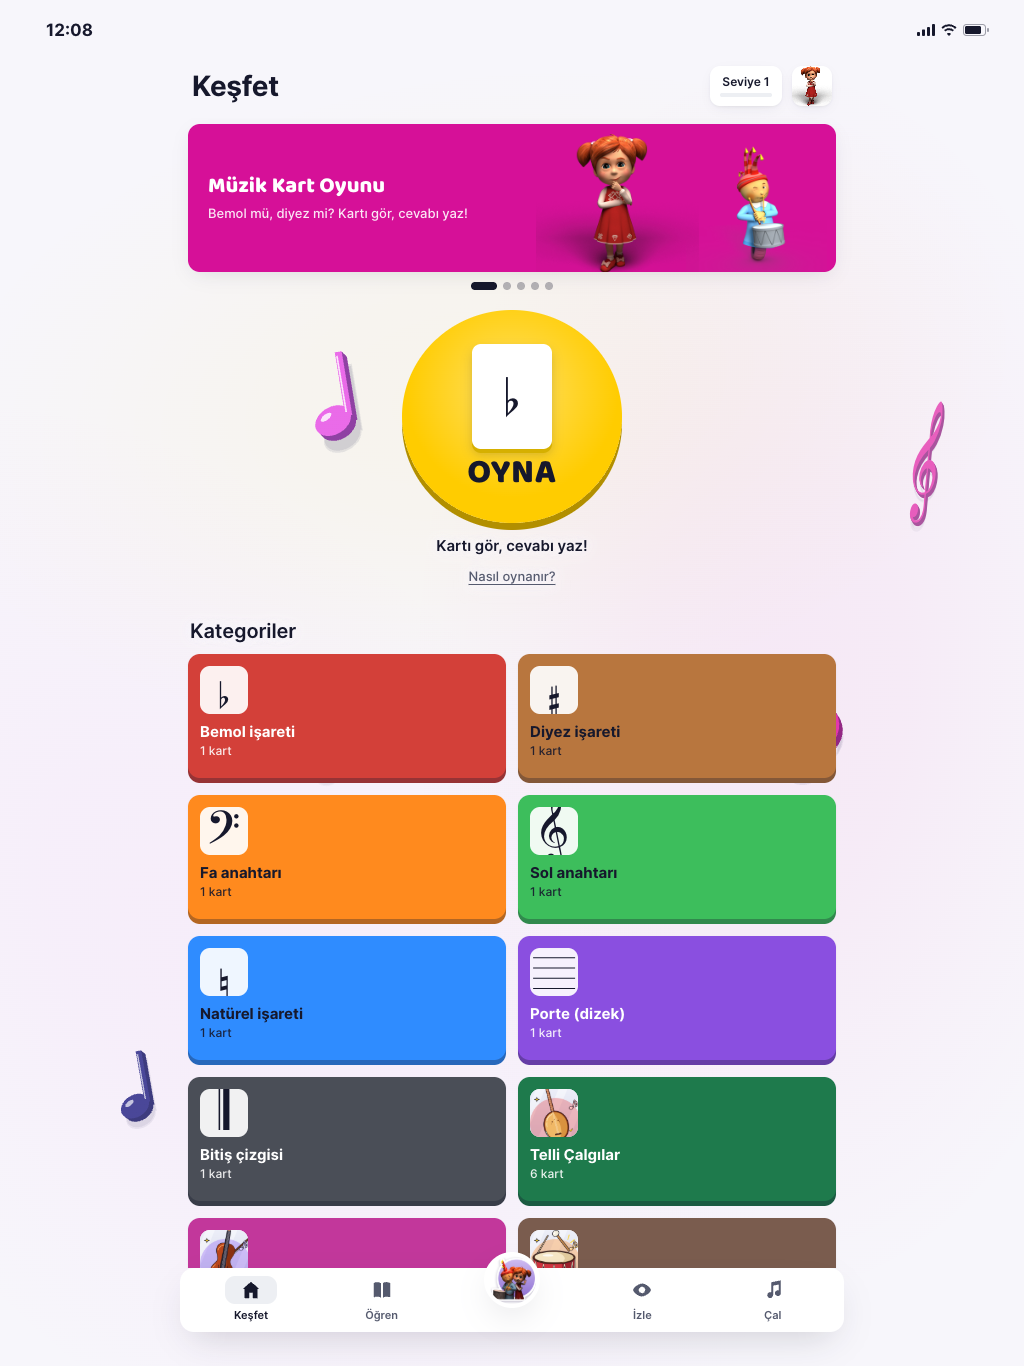
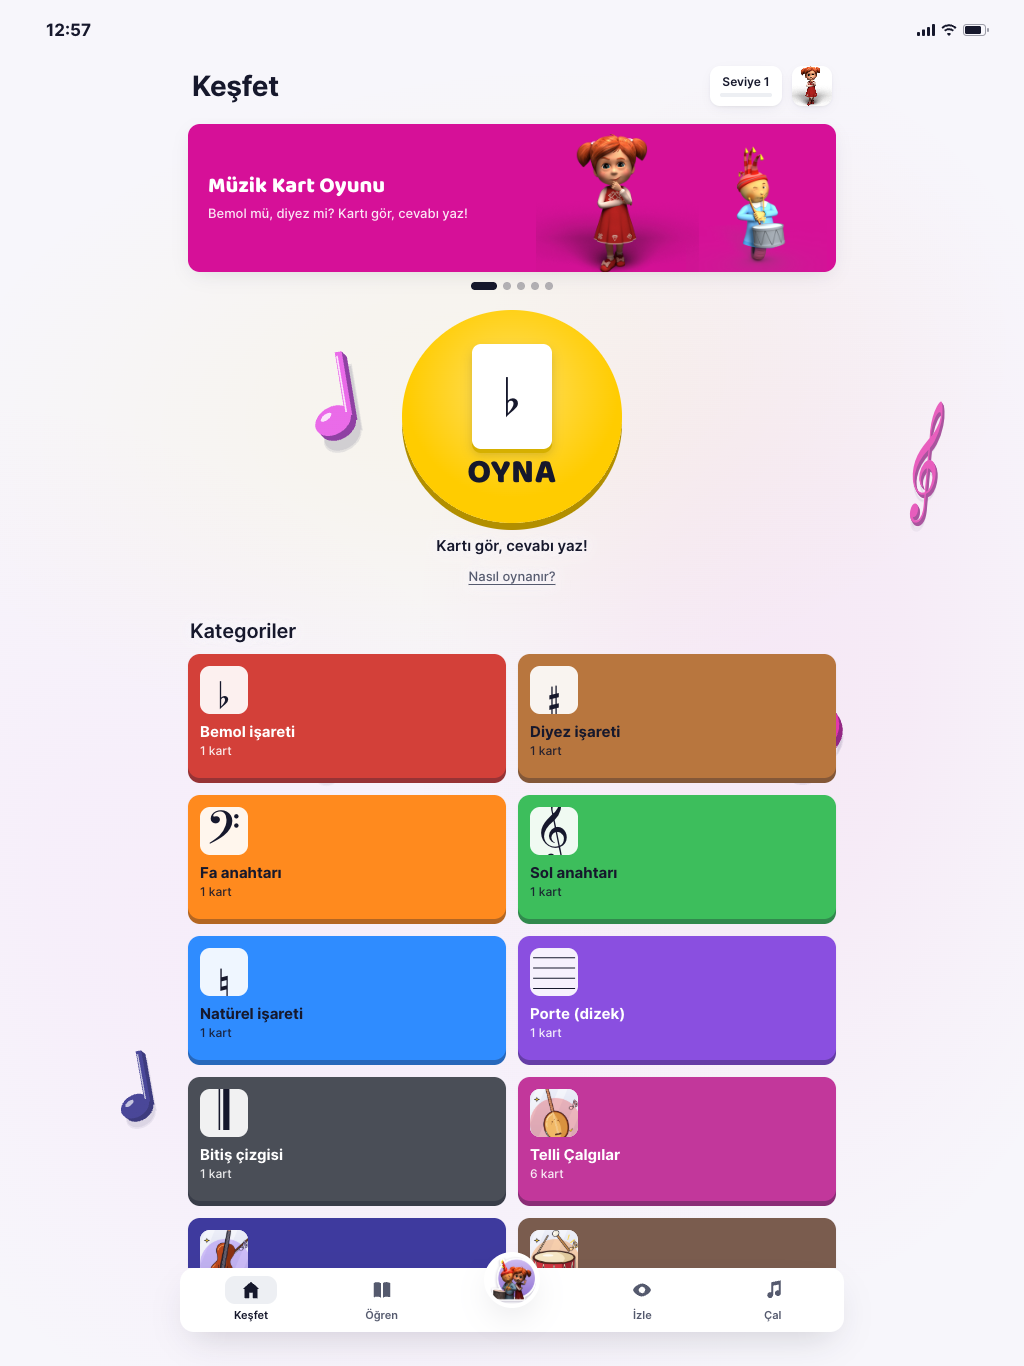
fix(phone): give each family the app's colour, and hold the demo to the app's files
The demo and the app moved the same four family colours for ch. 14 §1, but
gave them to different families. The app (tokens.json at 08f8cd3) has Telli
magenta #C2379B, Yaylı indigo #3E3A9E and Nefesli green #1E7A4C. The demo had
Telli green, Yaylı magenta and Nefesli indigo. So the phone in the deck showed
Keşfet, Öğren › Aileler, the Hazırlan sheet and the Çalgılar grid in other
colours than the app the testers have. Every demo guard passed. They compare
the demo's colours with each other (family = group = concept = badge, ΔE ≥ 15),
and a consistent swap satisfies all of them.

The families, GROUP_COLORS and the family badges now use the app's mapping.
The minimum ΔE is the app's own: 16.4 (Yaylı–Porte) over the 12 categories
and 20.4 (Vurmalı–Diğer) over the 7 groups. The Kart Kahramanı line now
matches badges.json ("Bildim" in double quotes, with a full stop).

tests/app-parity.test.mjs reads the app's files and compares them with the
demo's copies: family colours from tokens.json, Bakır nefesli and Diğer from
GroupColor, every badge's name, line and colour, the ladder numbers in
learning.json, and each sign card's difficulty. The app lives in another
repo, so on Vercel or another machine the test is skipped with a reason
rather than passed. mutants.sh points DOREMIMI_APP at the app, because its
temp copies would otherwise skip the test and every parity mutant would
survive. It also gained a multi-file mutant, because the drift fixed here
[…]

Changed region(s): [[0.5, 0.7687, 0.8438, 0.8917], [0.1562, 0.8917, 0.5, 0.9531], [0.0625, 0.0, 0.0938, 0.0307]]

diff --git a/app/data/content.js b/app/data/content.js
@@ -67,17 +67,20 @@ export const SIGN_CARDS = [
  * Four family colours moved in dossier ch. 14 §1: Keşfet now shows the 7 sign categories and the 5 families in one
  * grid, and Telli sat on Bemol's red (CIEDE2000 ΔE 6.7), Vurmalı on Fa's orange (5.6), Yaylı on Porte's purple (8.4) and
  * Nefesli on Natürel's blue (5.8). Sign colours are content and stay; the families took the palette's free colours
- * (signs.json "Ayrıldı": koyu yeşil, magenta-mor, füme kahve, lacivert-mor), each the free colour nearest its old hue.
- * Measured with tests/ch14.test.mjs: every family against every other Keşfet category ≥ 16.4 (Nefesli–Porte), the
- * 7 directory groups ≥ 20.4 (Vurmalı–Diğer). Diyez–Fa is 14.6, a sign pair, content, out of this change's reach.
- * Keep GROUP_COLORS (data/site.js) and the family badges below in step.
+ * (signs.json "Ayrıldı": magenta-mor, lacivert-mor, koyu yeşil, füme kahve). Which family wears which is the app's
+ * (tokens.json at 08f8cd3: Telli magenta, Yaylı indigo, Nefesli green, Vurmalı brown). The demo first gave the same
+ * four to the wrong families (Telli green, Yaylı magenta, Nefesli indigo), so the phone in the deck disagreed with
+ * the phone in the testers' hands; tests/app-parity.test.mjs now reads the app's files and fails on that.
+ * Measured with tests/ch14.test.mjs: every family against every other Keşfet category ≥ 16.4 (Yaylı–Porte), the
+ * 7 directory groups ≥ 20.4 (Vurmalı–Diğer), the same as the app's FamilyColourTests. Diyez–Fa is 14.6, a sign pair,
+ * content, out of this change's reach. Keep GROUP_COLORS (data/site.js) and the family badges below in step.
  */
 export const FAMILIES = {
-  TelliCalgilar: { name: 'Telli Çalgılar', color: '#1E7A4C', art: 'strings', description: 'Parmak ya da mızrap teli titreştirir, ses gövdede büyür. Bağlamanın ezgisinden gitarın akorlarına kadar sahnenin en tanıdık sesleri bu ailede.' },
-  YayliCalgilar: { name: 'Yaylı Çalgılar', color: '#C2379B', art: 'bowed', description: 'Yay tele sürtündükçe ses uzar, büyür, incelir. Bir notayı istediği kadar taşıyabilen bu aile, orkestranın şarkı söyleyen kalbidir.' },
+  TelliCalgilar: { name: 'Telli Çalgılar', color: '#C2379B', art: 'strings', description: 'Parmak ya da mızrap teli titreştirir, ses gövdede büyür. Bağlamanın ezgisinden gitarın akorlarına kadar sahnenin en tanıdık sesleri bu ailede.' },
+  YayliCalgilar: { name: 'Yaylı Çalgılar', color: '#3E3A9E', art: 'bowed', description: 'Yay tele sürtündükçe ses uzar, büyür, incelir. Bir notayı istediği kadar taşıyabilen bu aile, orkestranın şarkı söyleyen kalbidir.' },
   VurmaliCalgilar: { name: 'Vurmalı Çalgılar', color: '#7A5C4E', art: 'percussion', description: 'Tokmak, baget ya da el vurur; ritim doğar. Bu aile oyunun temposunu belirler ve herkesi aynı adımda buluşturur.' },
   TusluCalgilar: { name: 'Tuşlu Çalgılar', color: '#12B5C9', art: 'keys', description: 'Bir tuşa basmak içeride koca bir mekanizmayı uyandırır. Aynı anda birçok nota çalabilen bu aile, akorlarla sahneyi inşa eder.' },
-  NefesliUflemeliCalgilar: { name: 'Nefesli Çalgılar', color: '#3E3A9E', art: 'wind', description: 'Nefes; kamış, ağızlık ya da bir delikle şekillenir ve havada şarkıya dönüşür. Bu aile en hafif fısıltıdan en parlak çağrıya kadar uzanır.' },
+  NefesliUflemeliCalgilar: { name: 'Nefesli Çalgılar', color: '#1E7A4C', art: 'wind', description: 'Nefes; kamış, ağızlık ya da bir delikle şekillenir ve havada şarkıya dönüşür. Bu aile en hafif fısıltıdan en parlak çağrıya kadar uzanır.' },
 };
 
 /*
@@ -187,15 +190,15 @@ export const BADGES = [
   { id: 'diyez-dedektifi', name: 'Diyez Dedektifi', description: 'Diyezi buldun: notayı yarım ses incelten işaret.', artKey: 'sign:diyez', color: '#B8763E', rule: { kind: 'LearnQuestions', count: 1 }, conceptId: 'signcat:diyez', sortOrder: 3 },
   { id: 'baba-sesler', name: 'Baba Sesler Bilgini', description: 'Fa anahtarını tanıdın: kalın, baba sesleri gösterir.', artKey: 'sign:fa-anahtari', color: '#FF8A1E', rule: { kind: 'LearnQuestions', count: 1 }, conceptId: 'signcat:fa', sortOrder: 4 },
   { id: 'sol-anahtari-ustasi', name: 'Sol Anahtarı Ustası', description: 'Sol anahtarını iki farklı günde ilk denemede yazdın.', artKey: 'sign:sol-anahtari', color: '#3DBE5C', rule: { kind: 'MasterQuestions', count: 1 }, conceptId: 'signcat:sol', sortOrder: 5 },
-  { id: 'telli-kasif', name: 'Telli Kaşif', description: 'Telli çalgılarla ilgili 3 soruyu öğrendin.', artKey: 'family:TelliCalgilar', color: '#1E7A4C', rule: { kind: 'LearnQuestions', count: 3 }, conceptId: 'family:TelliCalgilar', sortOrder: 6 },
-  { id: 'yayli-sarkici', name: 'Yaylı Şarkıcı', description: 'Yaylı çalgılarla ilgili 3 soruyu öğrendin.', artKey: 'family:YayliCalgilar', color: '#C2379B', rule: { kind: 'LearnQuestions', count: 3 }, conceptId: 'family:YayliCalgilar', sortOrder: 7 },
+  { id: 'telli-kasif', name: 'Telli Kaşif', description: 'Telli çalgılarla ilgili 3 soruyu öğrendin.', artKey: 'family:TelliCalgilar', color: '#C2379B', rule: { kind: 'LearnQuestions', count: 3 }, conceptId: 'family:TelliCalgilar', sortOrder: 6 },
+  { id: 'yayli-sarkici', name: 'Yaylı Şarkıcı', description: 'Yaylı çalgılarla ilgili 3 soruyu öğrendin.', artKey: 'family:YayliCalgilar', color: '#3E3A9E', rule: { kind: 'LearnQuestions', count: 3 }, conceptId: 'family:YayliCalgilar', sortOrder: 7 },
   { id: 'vurmali-ritimci', name: 'Vurmalı Ritimci', description: 'Vurmalı çalgılarla ilgili 3 soruyu öğrendin.', artKey: 'family:VurmaliCalgilar', color: '#7A5C4E', rule: { kind: 'LearnQuestions', count: 3 }, conceptId: 'family:VurmaliCalgilar', sortOrder: 8 },
   { id: 'tuslu-mimar', name: 'Tuşlu Mimar', description: 'Tuşlu çalgılarla ilgili 3 soruyu öğrendin.', artKey: 'family:TusluCalgilar', color: '#12B5C9', rule: { kind: 'LearnQuestions', count: 3 }, conceptId: 'family:TusluCalgilar', sortOrder: 9 },
-  { id: 'nefes-gezgini', name: 'Nefes Gezgini', description: 'Nefesli çalgılarla ilgili 3 soruyu öğrendin.', artKey: 'family:NefesliUflemeliCalgilar', color: '#3E3A9E', rule: { kind: 'LearnQuestions', count: 3 }, conceptId: 'family:NefesliUflemeliCalgilar', sortOrder: 10 },
+  { id: 'nefes-gezgini', name: 'Nefes Gezgini', description: 'Nefesli çalgılarla ilgili 3 soruyu öğrendin.', artKey: 'family:NefesliUflemeliCalgilar', color: '#1E7A4C', rule: { kind: 'LearnQuestions', count: 3 }, conceptId: 'family:NefesliUflemeliCalgilar', sortOrder: 10 },
   { id: 'aile-gezgini', name: 'Orkestra Gezgini', description: 'Beş çalgı ailesinin hepsinden bir soru oynadın.', artKey: 'icon:IconCards', color: '#14107A', rule: { kind: 'TryEveryFamily', count: 0 }, sortOrder: 11 },
   { id: 'harf-ustasi', name: 'Harf Ustası', description: 'Bir turda 5 cevabı ilk denemede yazdın.', artKey: 'icon:IconPencil', color: '#2B9BFF', rule: { kind: 'TypedFirstTryInRound', count: 5 }, sortOrder: 12 },
   { id: 'yazma-zirvesi', name: 'Zirve', description: 'Zorlandın ama yine en üste tırmandın!', artKey: 'icon:IconStar', color: '#E0109E', rule: { kind: 'ClimbToLevel', level: 'Yaz' }, sortOrder: 13 },
-  { id: 'cevir-kahramani', name: 'Kart Kahramanı', description: "Kartları çevirip üç kez 'Bildim' dedin", artKey: 'icon:IconReplay', color: '#1C6FAA', rule: { kind: 'FlipKnew', count: 3 }, sortOrder: 14 },
+  { id: 'cevir-kahramani', name: 'Kart Kahramanı', description: 'Kartları çevirip üç kez "Bildim" dedin.', artKey: 'icon:IconReplay', color: '#1C6FAA', rule: { kind: 'FlipKnew', count: 3 }, sortOrder: 14 },
   { id: 'uc-gun-muzik', name: 'Müzik Dostu', description: 'Üç farklı günde müzik oynadın.', artKey: 'icon:IconHeart', color: '#E85BE6', rule: { kind: 'PlayDays', count: 3 }, sortOrder: 15 },
 ];
 

diff --git a/index.html b/index.html
@@ -22,7 +22,7 @@
       <div class="device" id="device" aria-label="Canlı uygulama">
         <span class="btn-l1"></span><span class="btn-l2"></span><span class="btn-r"></span>
         <div class="screen">
-          <iframe id="phone" title="Doremimi uygulaması" src="app/?v=6&embed=1&reset=1#/"></iframe>
+          <iframe id="phone" title="Doremimi uygulaması" src="app/?v=7&embed=1&reset=1#/"></iframe>
           <div class="island"></div>
           <div class="home-ind"></div>
         </div>
@@ -30,7 +30,7 @@
 
       <div class="frames" id="frames" aria-hidden="true">
         <figure class="fr phone"><img src="assets/screens/phone-kesfet-new-nav.png?v=2" alt=""></figure>
-        <figure class="fr tab-p"><img src="assets/screens/tablet-kesfet-new-nav.png?v=2" alt=""></figure>
+        <figure class="fr tab-p"><img src="assets/screens/tablet-kesfet-new-nav.png?v=3" alt=""></figure>
         <figure class="fr tab-l"><img src="assets/screens/12g-game-yaz-tablet-1366x1024.png?v=2" alt=""></figure>
       </div>
 

diff --git a/app/data/site.js b/app/data/site.js
@@ -127,7 +127,7 @@ export const DIFFICULTY = { 'guitar-family': 'Başlangıç Seviyesi', 'guitar-st
  * ShellViewModel.cs:22-31 (GroupAccent): each instrument's group colour. Four of them moved in dossier ch. 14 §1
  * (data/content.js FAMILIES says why and what was measured).
  */
-export const GROUP_COLORS = { 'Yaylı': '#C2379B', 'Telli': '#1E7A4C', 'Tuşlu': '#12B5C9', 'Nefesli': '#3E3A9E', 'Bakır nefesli': '#F6B53A', 'Vurmalı': '#7A5C4E', 'Diğer': '#6B6E85' };
+export const GROUP_COLORS = { 'Yaylı': '#3E3A9E', 'Telli': '#C2379B', 'Tuşlu': '#12B5C9', 'Nefesli': '#1E7A4C', 'Bakır nefesli': '#F6B53A', 'Vurmalı': '#7A5C4E', 'Diğer': '#6B6E85' };
 
 /*
  * Doremimi/Accounts/LegalTexts.cs. Three sentences name the old paths through Daha fazla; with the navigation

diff --git a/app/index.html b/app/index.html
@@ -29,6 +29,6 @@
     <section class="game" id="game" hidden aria-label="Müzik Kart Oyunu"></section>
     <div class="toast-host" id="toast" role="status"></div>
   </div>
-  <script type="module" src="app.js?v=6"></script>
+  <script type="module" src="app.js?v=7"></script>
 </body>
 </html>

diff --git a/README.md b/README.md
@@ -98,6 +98,8 @@ the game as `#/oyun?deste=karisik`. The old `#/oyunlar`, `#/daha`, `#/ogren/vide
 
 ```
 npm test                 # node --test tests/: the game rules, the music, the navigation, the deck's flow lock
+                         # tests/app-parity.test.mjs reads the app's own files (../doremimi-superapp, or DOREMIMI_APP);
+                         # without the app checked out it is skipped, not passed
 npm run e2e              # with npm start running: mashes → in headless Chrome; the deck must wait for the phone
 npm run mutants          # every mutant must be "caught" and every CONTROL "SURVIVED"
 npm run shots            # with the server running: screenshots into docs/screens/
@@ -151,7 +153,8 @@ category's cards turned over; Çal and an instrument's page play at the choices;
 is on screen (no ladder strip, no move toast, results count right answers). Every question has a difficulty; the first
 game asks the child's level, Ayarlar › Zorluk changes it, and rounds deal under it as a ceiling. Öğren has six tabs
 (İşaretler, a photo grid of Çalgılar, Aileler, Bilmeceler, Değerler, Notalar); the logo's page leads everywhere once.
-Four family colours moved so the 12 categories can be told apart (`app/data/content.js` FAMILIES says by how much).
+Four family colours moved so the 12 categories can be told apart, each family wearing the colour the app's tokens.json
+gives it (`app/data/content.js` FAMILIES says by how much; `tests/app-parity.test.mjs` holds it to the app).
 Guards: `tests/ch14.test.mjs`, mutants in `tools/mutants.sh`, and `tools/ch14-e2e.mjs` in headless Chrome.
 
 **Simplified:**
